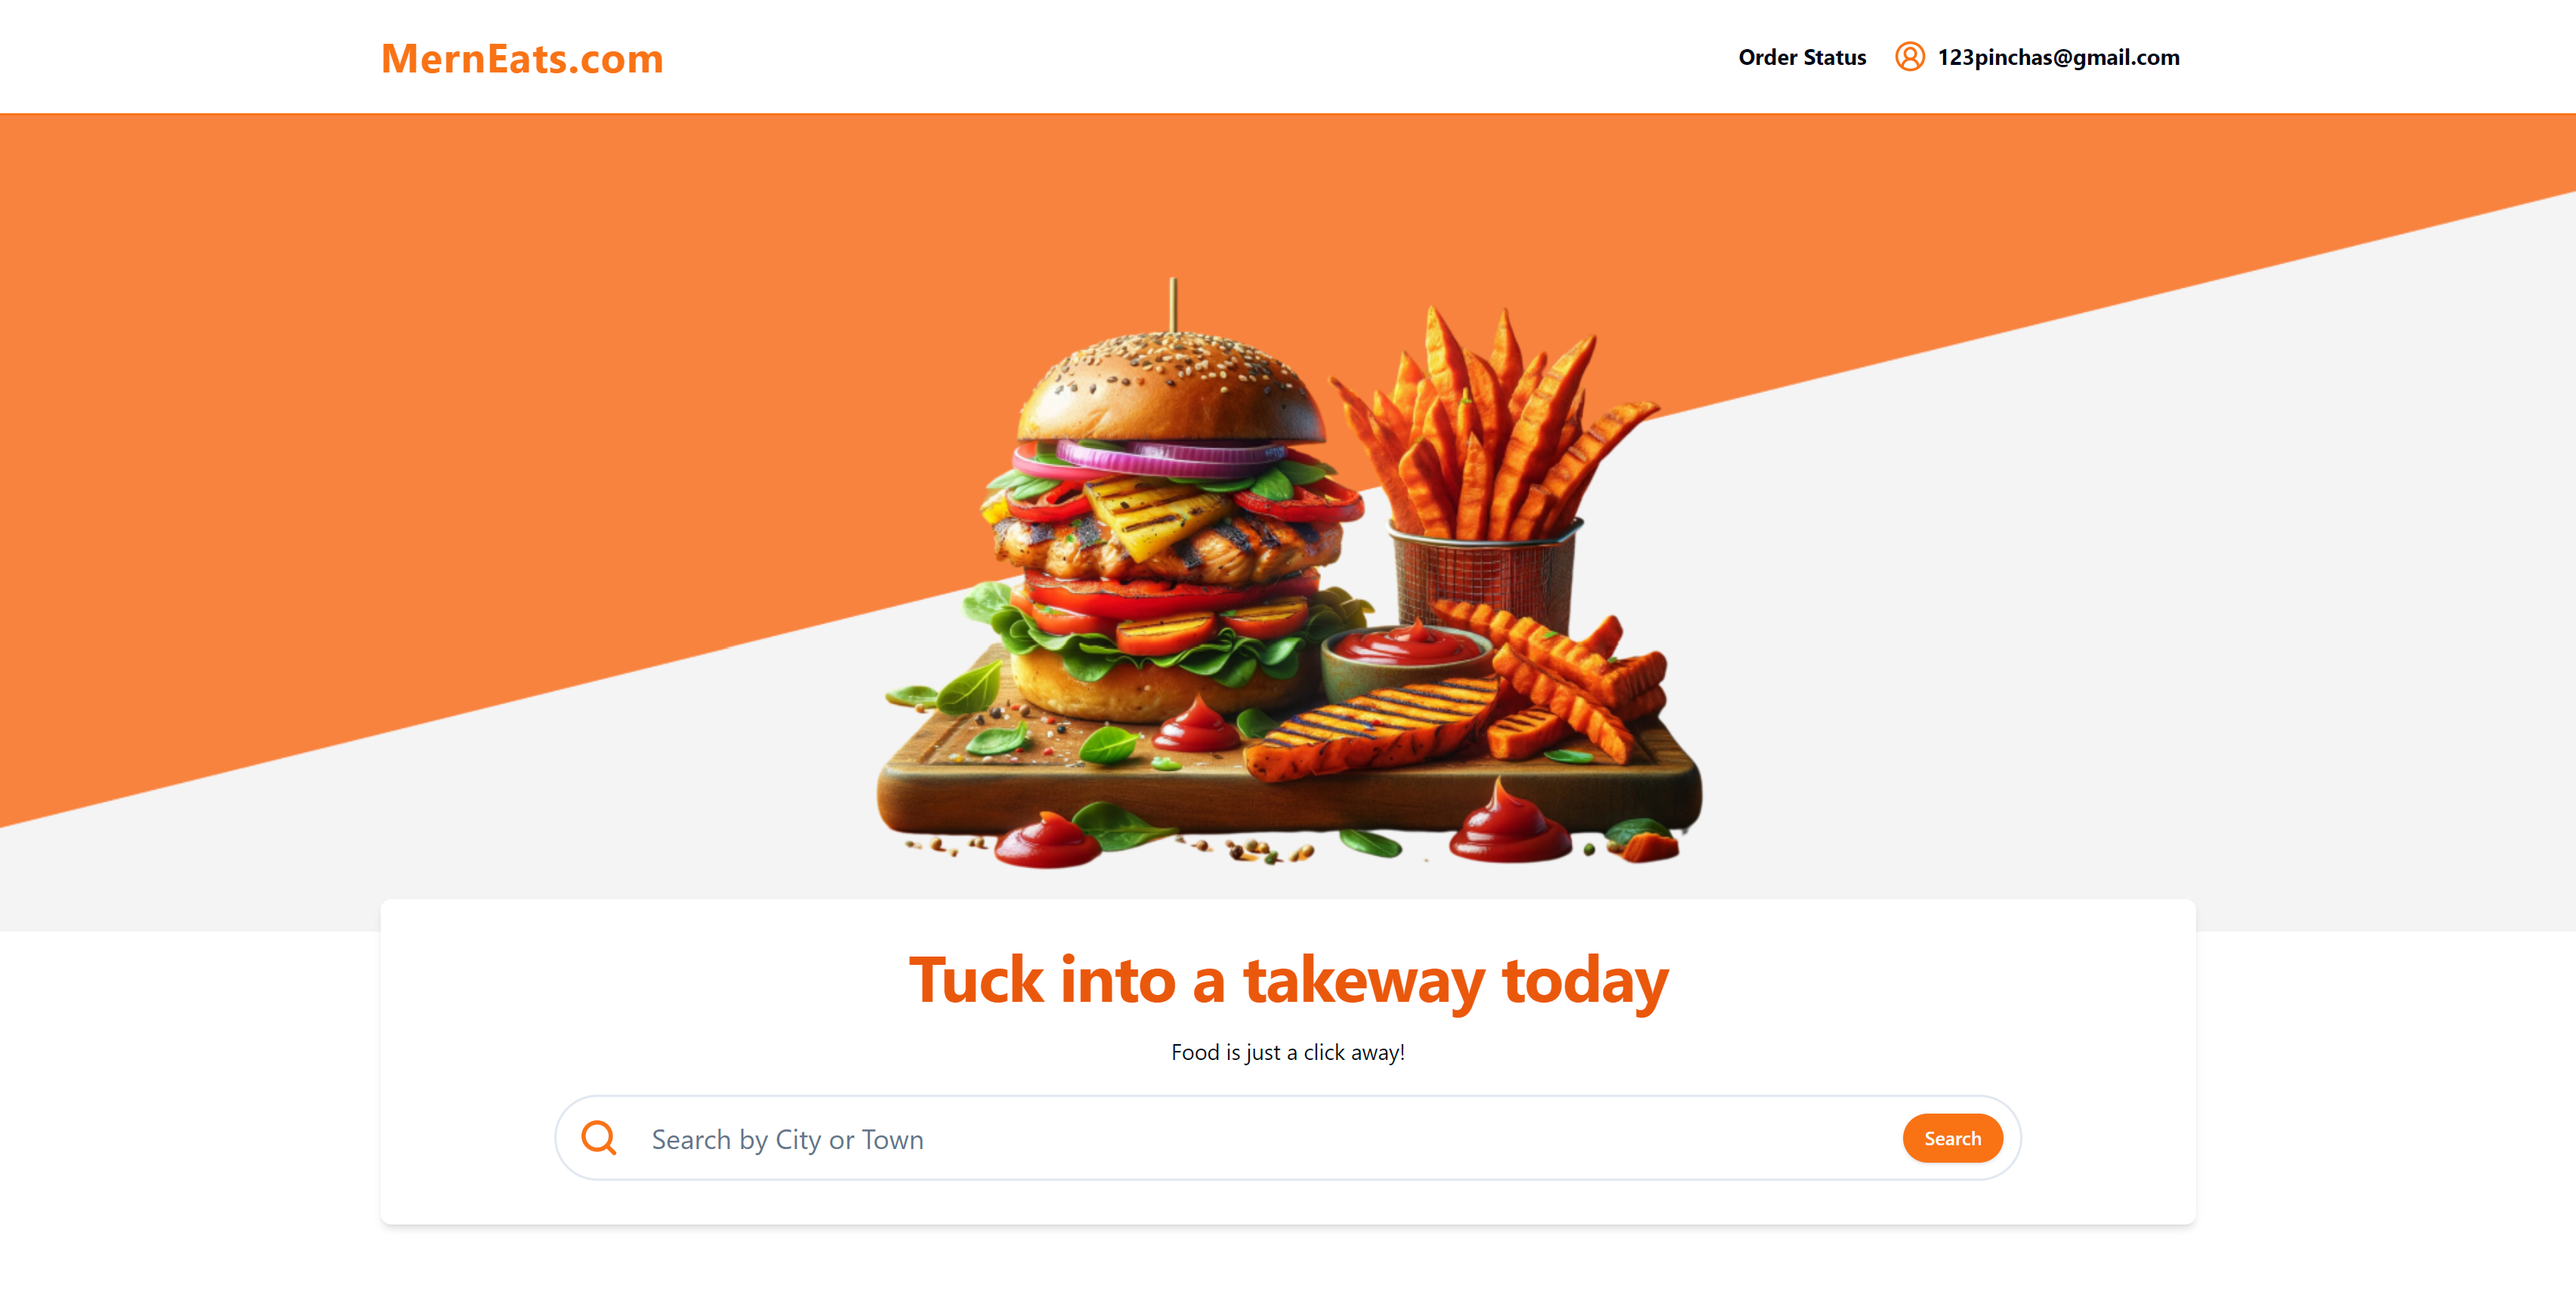
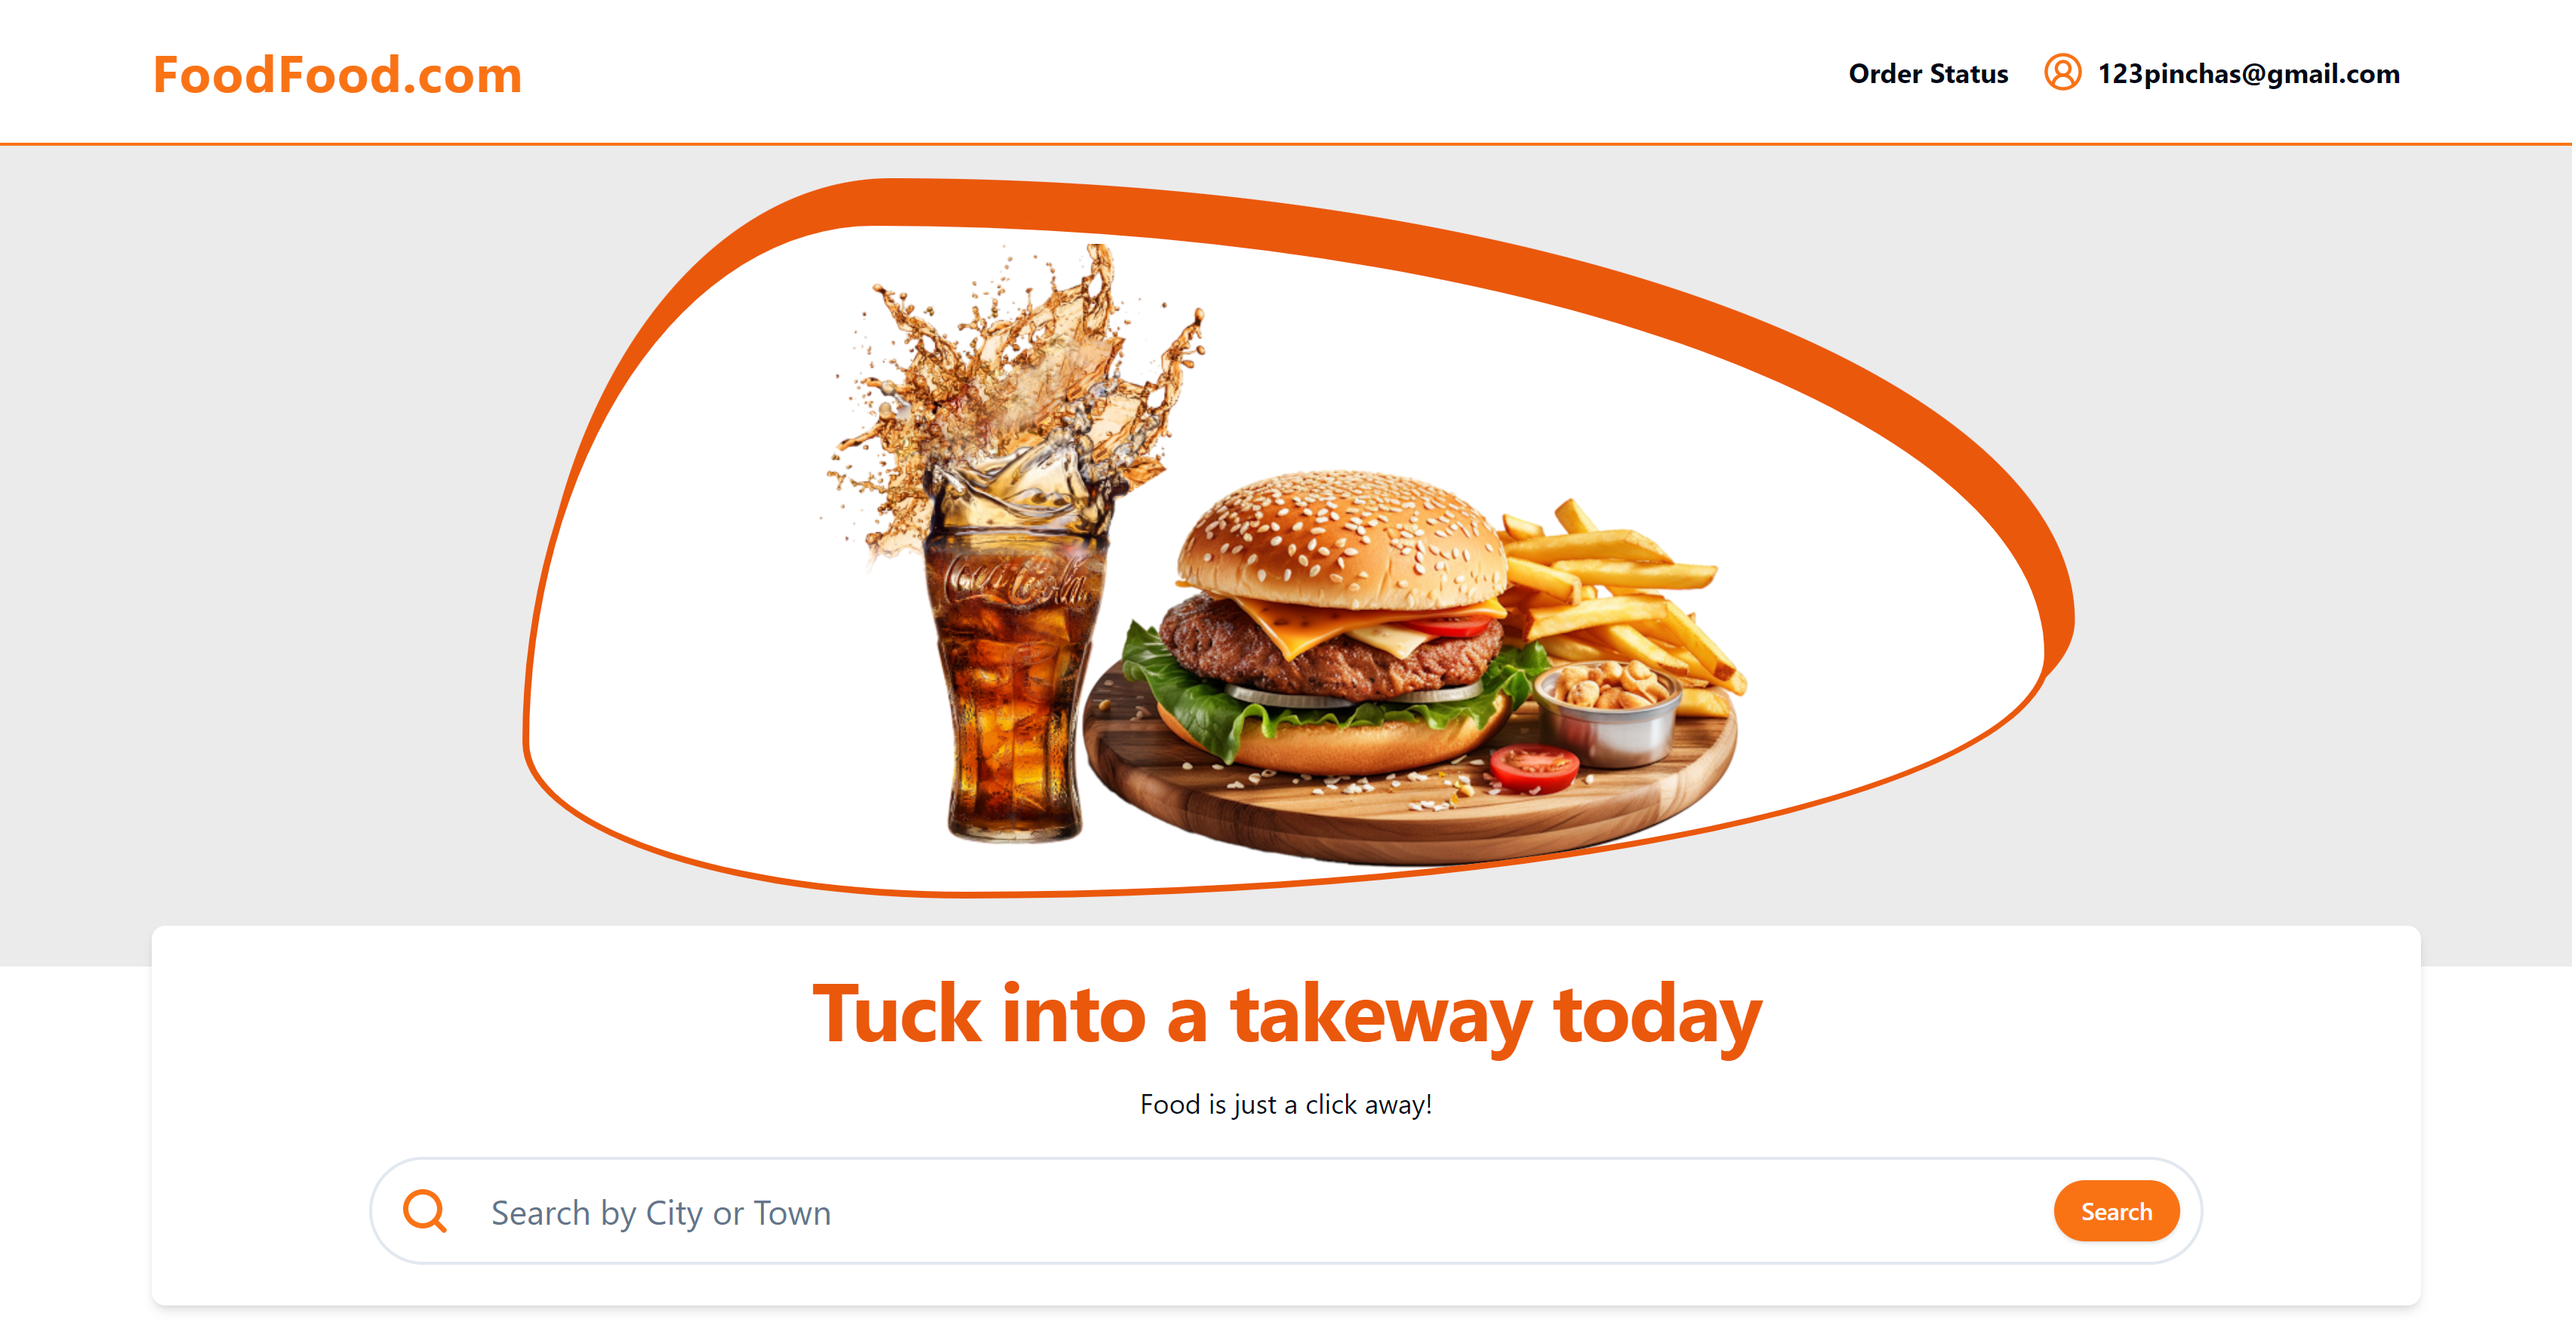
Update README.md, optimize images for faster loading, and redesign HERO section

diff --git a/src/components/Hero.tsx b/src/components/Hero.tsx
@@ -1,9 +1,21 @@
-import hero from "../assets/hero.png";
+import coke from "../assets/coke.png";
+import burger from "../assets/burger.png";
 
 const Hero = () => {
   return (
-    <div>
-      <img src={hero} alt="hero image" className="w-full max-h-[600px] object-cover"/>
+    <div className="h-fit flex items-center justify-center bg-[#ebebeb] p-[60px_30px_40px_30px]">
+      <div className="flex items-end justify-center w-[clamp(350px,100%,900px)] max-h-[400px] border-4 border-[#ea580c] rounded-[23%_77%_71%_29%_/_77%_64%_36%_23%] shadow-[10px_-20px_0_4px_#ea580c] overflow-hidden bg-white pt-4 pb-7 md:p-10">
+        <img
+          src={coke}
+          alt="Exploded view of a coke"
+          className="object-contain h-[28vw] md:h-[23vw] me-[-3vw]"
+        />
+        <img
+          src={burger}
+          alt="Exploded view of a burger"
+          className="object-contain w-[36vw] md:w-[26vw] h-fit ms-[-2vw] mb-[-1vw]"
+        />
+      </div>
     </div>
   );
 };

diff --git a/src/pages/HomePage.tsx b/src/pages/HomePage.tsx
@@ -1,5 +1,5 @@
 import landingImage from "../assets/landing.png";
-import appDownloadImage from "../assets/appDownload.png";
+import appDownloadImage from "../assets/app-download.png";
 import SearchBar, { SearchForm } from "@/components/SearchBar";
 import { useLocation, useNavigate } from "react-router-dom";
 import { useEffect, useRef } from "react";

diff --git a/README.md b/README.md
@@ -4,7 +4,7 @@
 
 This project showcases the development of a comprehensive food ordering platform using modern web technologies. The application includes features such as user registration, restaurant search, cart management, and real-time order status updates. The project is built using React, Node.js, MongoDB, and Stripe, demonstrating a full-stack approach to creating an enterprise-level application.
 
-- [View the live site](https://mern-food-ordering-app-frontend-2ded.onrender.com/) 🚀
+- [View the live site](https://foodfood.onrender.com/) 🚀
 
 ## Key Features
 
